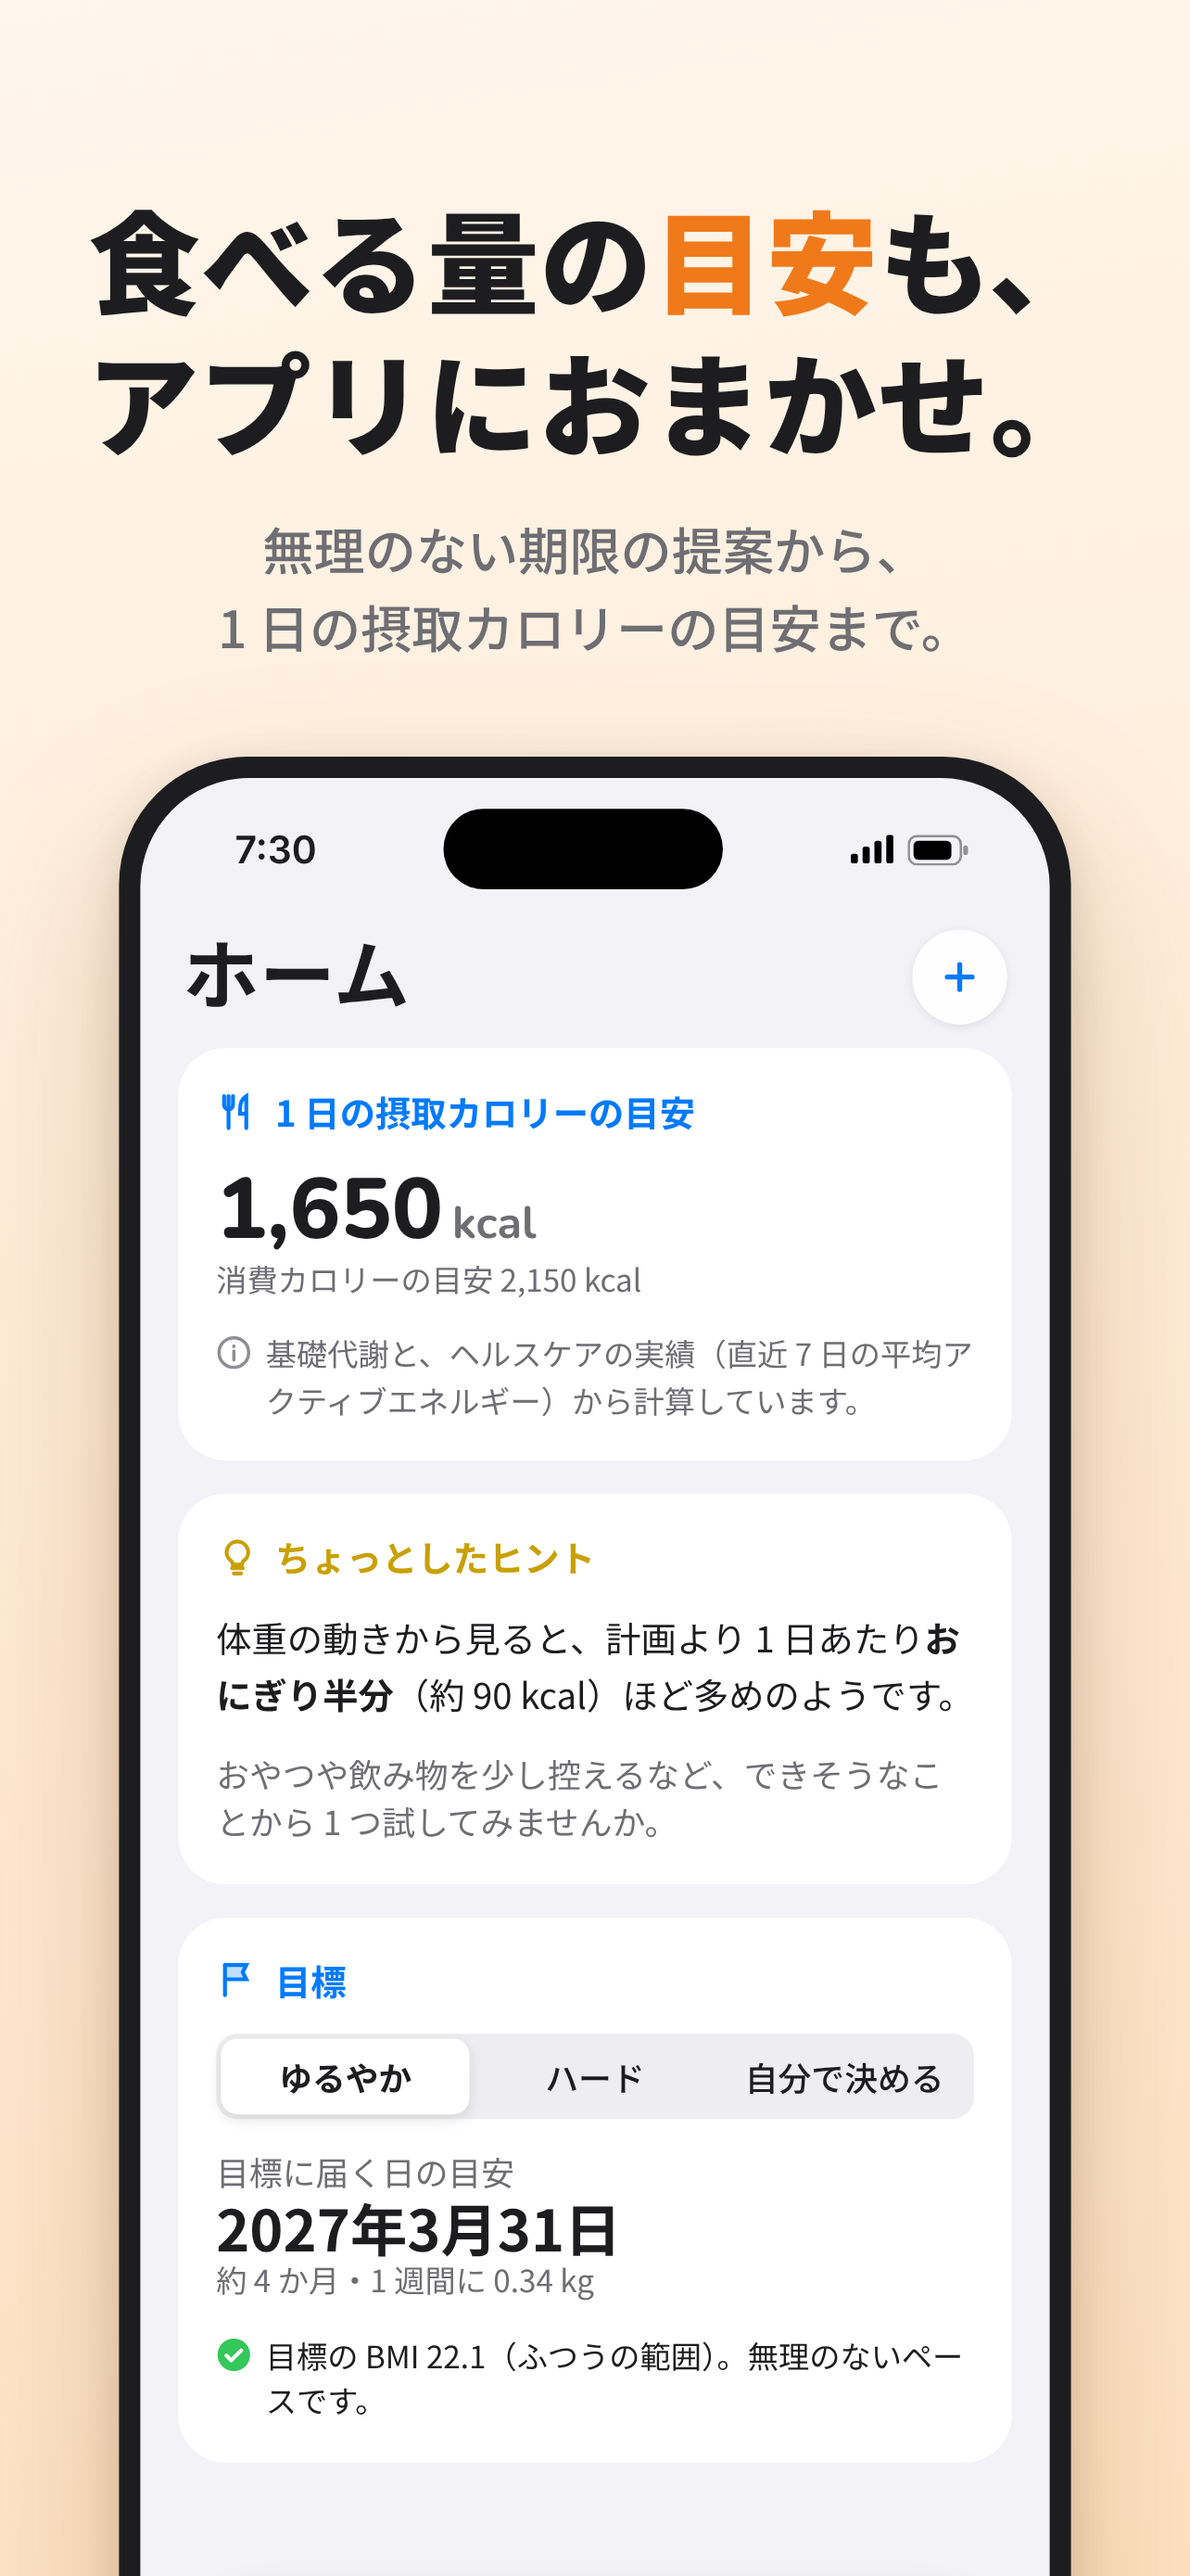
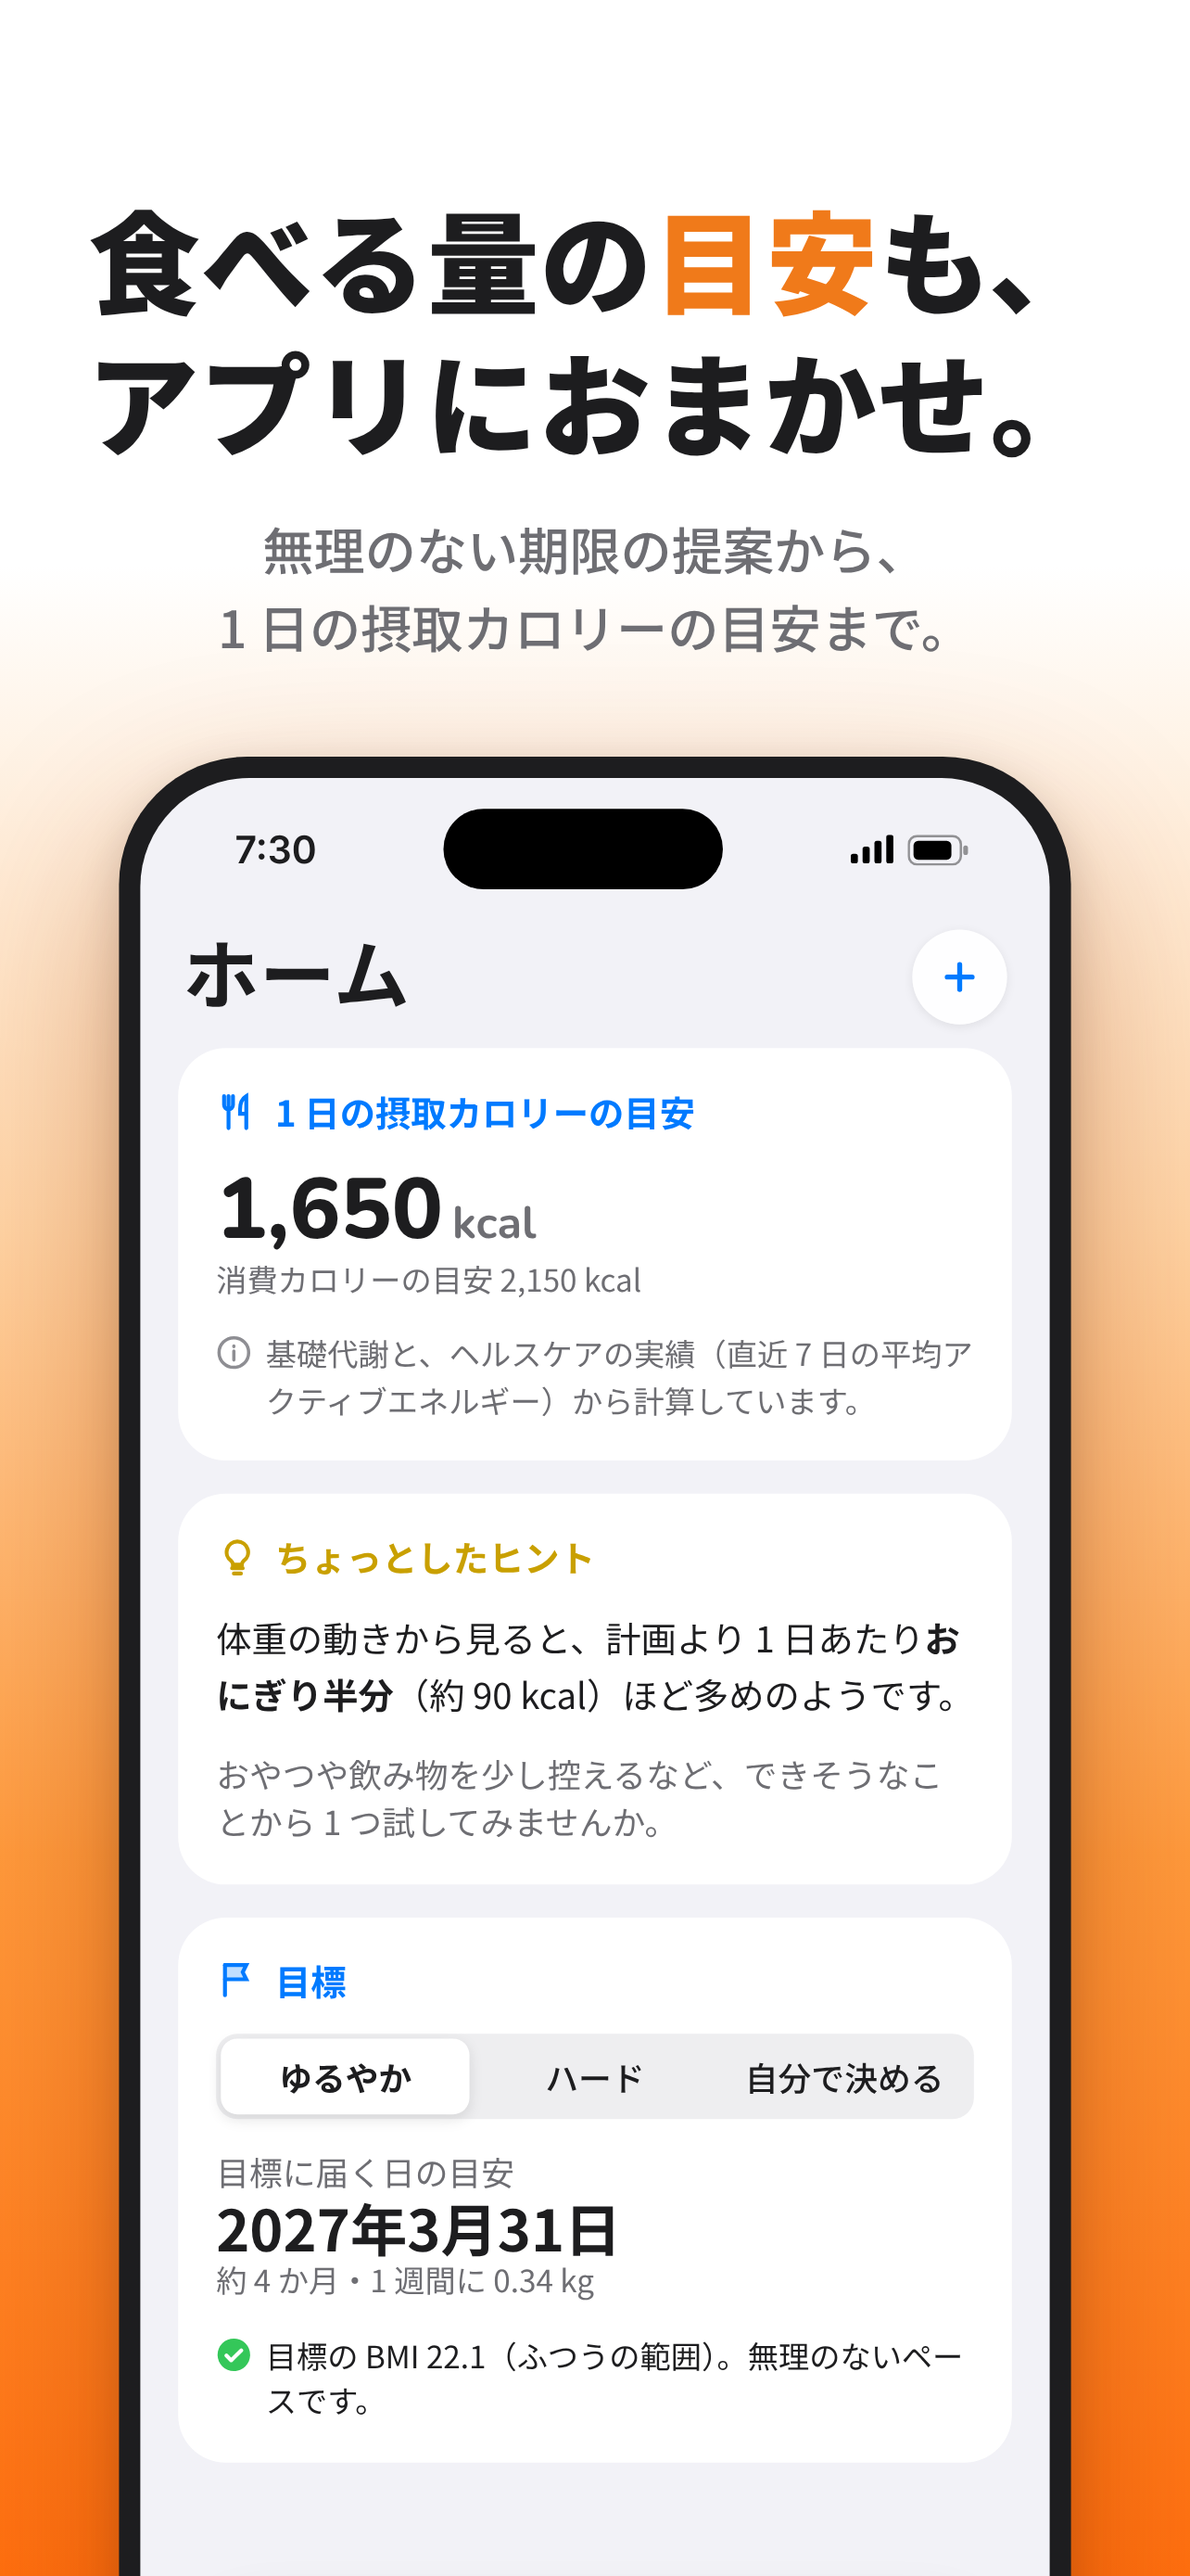
App Store の文章を新しい無料／Pro の分け方に合わせ、画像の背景を白→オレンジに
- 無料は今のペースと期限に間に合うかまで、届く日（日付と点線）は Pro（docs/PRO.md）
- 無料体験は「1 か月無料で試す」ボタンで始め、自動課金なし、と説明文に明記
- サブタイトルを無料でできること（目標までの道のり）に変更
- プレビュー画像の背景を上が白・下が鮮やかなオレンジのグラデーションに

Claude-Session: https://claude.ai/code/session_01HgqWwdhngGoEstZSiSDXaE

Changed region(s): [[0.0, 0.031, 1.0, 0.2477], [0.8723, 0.3715, 1.0, 1.0], [0.0, 0.3405, 0.1246, 1.0]]

diff --git a/docs/app-store/source/screens.html b/docs/app-store/source/screens.html
@@ -21,7 +21,7 @@
   html, body { width: 100%; height: 100%; overflow: hidden; }
   body {
     font-family: "Noto Sans JP", sans-serif; color: var(--ink);
-    background: linear-gradient(170deg, var(--bg1) 0%, var(--bg2) 100%);
+    background: linear-gradient(180deg, #FFFFFF 0%, #FFFFFF 22%, #FFD3A3 48%, #FF9A3C 72%, #FF6F0F 100%);
     -webkit-font-smoothing: antialiased;
   }
   .canvas { position: relative; width: 100vw; height: 100vh; overflow: hidden; }
@@ -38,7 +38,7 @@
   .phone { position: absolute; left: 50%; top: var(--phoneTop, 27vh); width: 402px; height: 874px;
            transform-origin: top center; transform: translateX(-50%) scale(var(--scale));
            border-radius: 54px; background: #1D1D1F; padding: 9px;
-           box-shadow: 0 30px 70px rgba(120,60,0,.22), 0 6px 18px rgba(0,0,0,.12); }
+           box-shadow: 0 30px 70px rgba(150,50,0,.35), 0 6px 18px rgba(0,0,0,.15); }
   .screen { width: 100%; height: 100%; border-radius: 46px; background: var(--screen); overflow: hidden; position: relative; }
   .status { height: 54px; display: flex; align-items: center; justify-content: space-between; padding: 6px 34px 0 40px;
             font-family: Inter, sans-serif; font-weight: 600; font-size: 16px; }
@@ -296,7 +296,7 @@ const vw = innerWidth, vh = innerHeight;
 const scale = (vw * 0.80) / 402;
 document.documentElement.style.setProperty("--scale", scale);
 document.getElementById("canvas").innerHTML = `
-  <div class="head">${s.pro ? `<div class="pro">Pro 機能・最初の 1 か月は無料</div>` : ""}<h1>${s.h}</h1><p>${s.p}</p></div>
+  <div class="head">${s.pro ? `<div class="pro">Pro 機能・1 か月無料で試せます</div>` : ""}<h1>${s.h}</h1><p>${s.p}</p></div>
   <div class="phone"><div class="screen">${s.screen()}</div></div>`;
 // 見出しの高さ（2 行か 3 行か）に合わせて、画面のモックをすぐ下に置く
 const headBottom = document.querySelector(".head").getBoundingClientRect().bottom;
